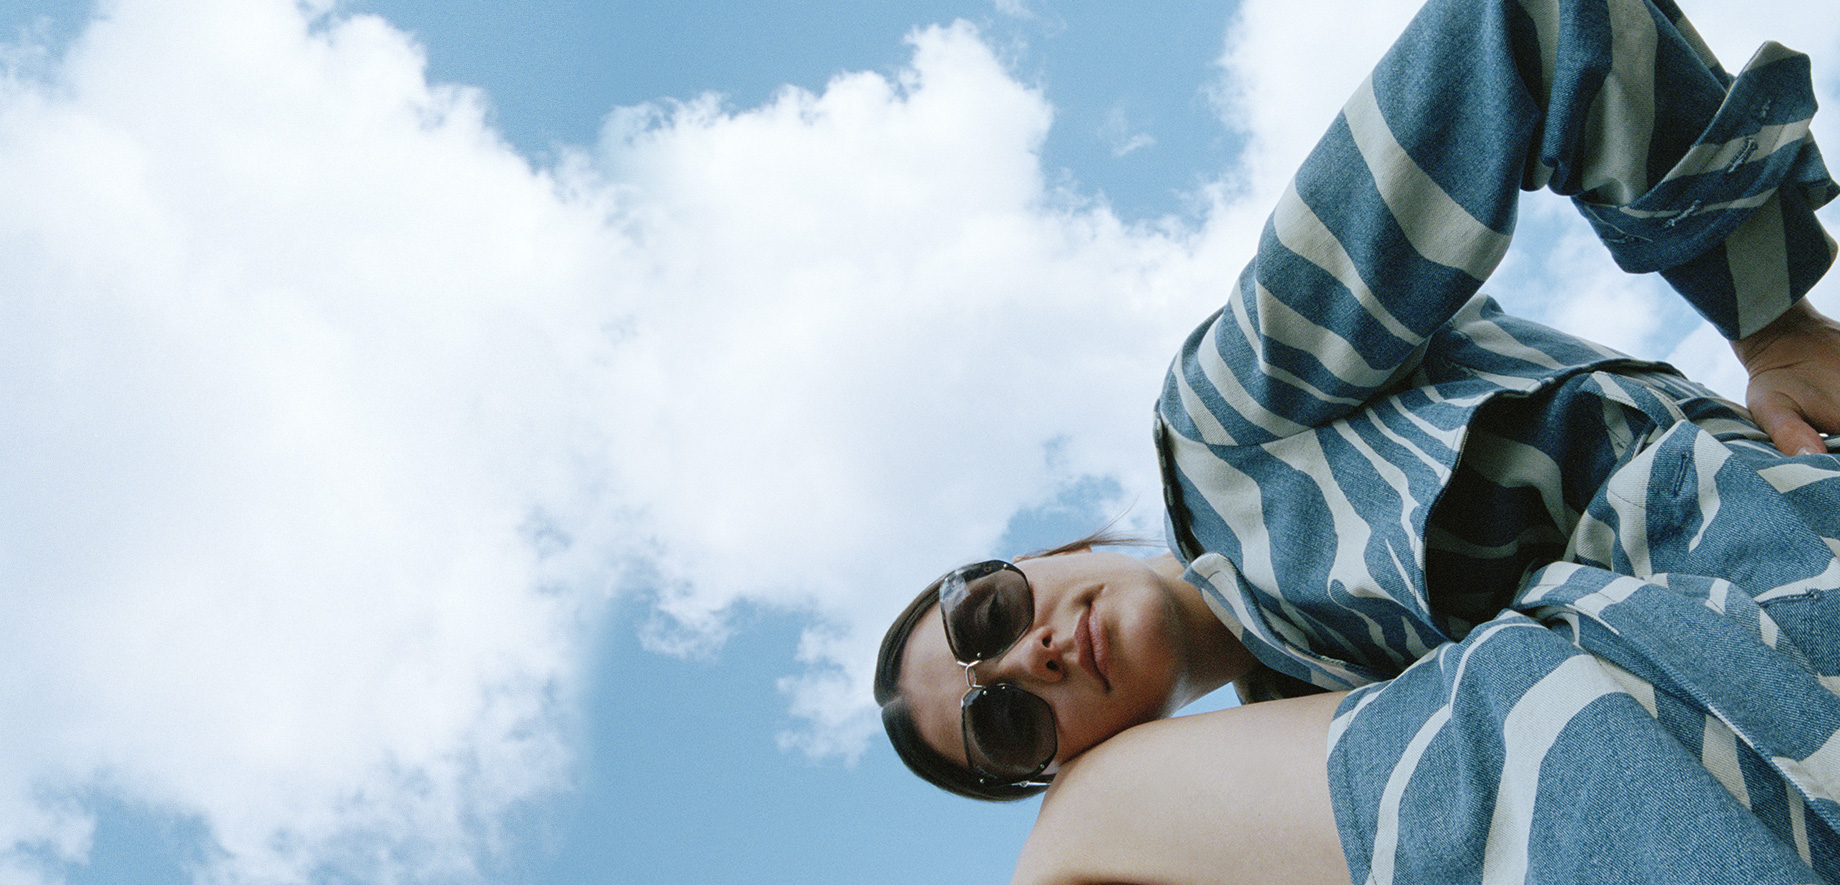
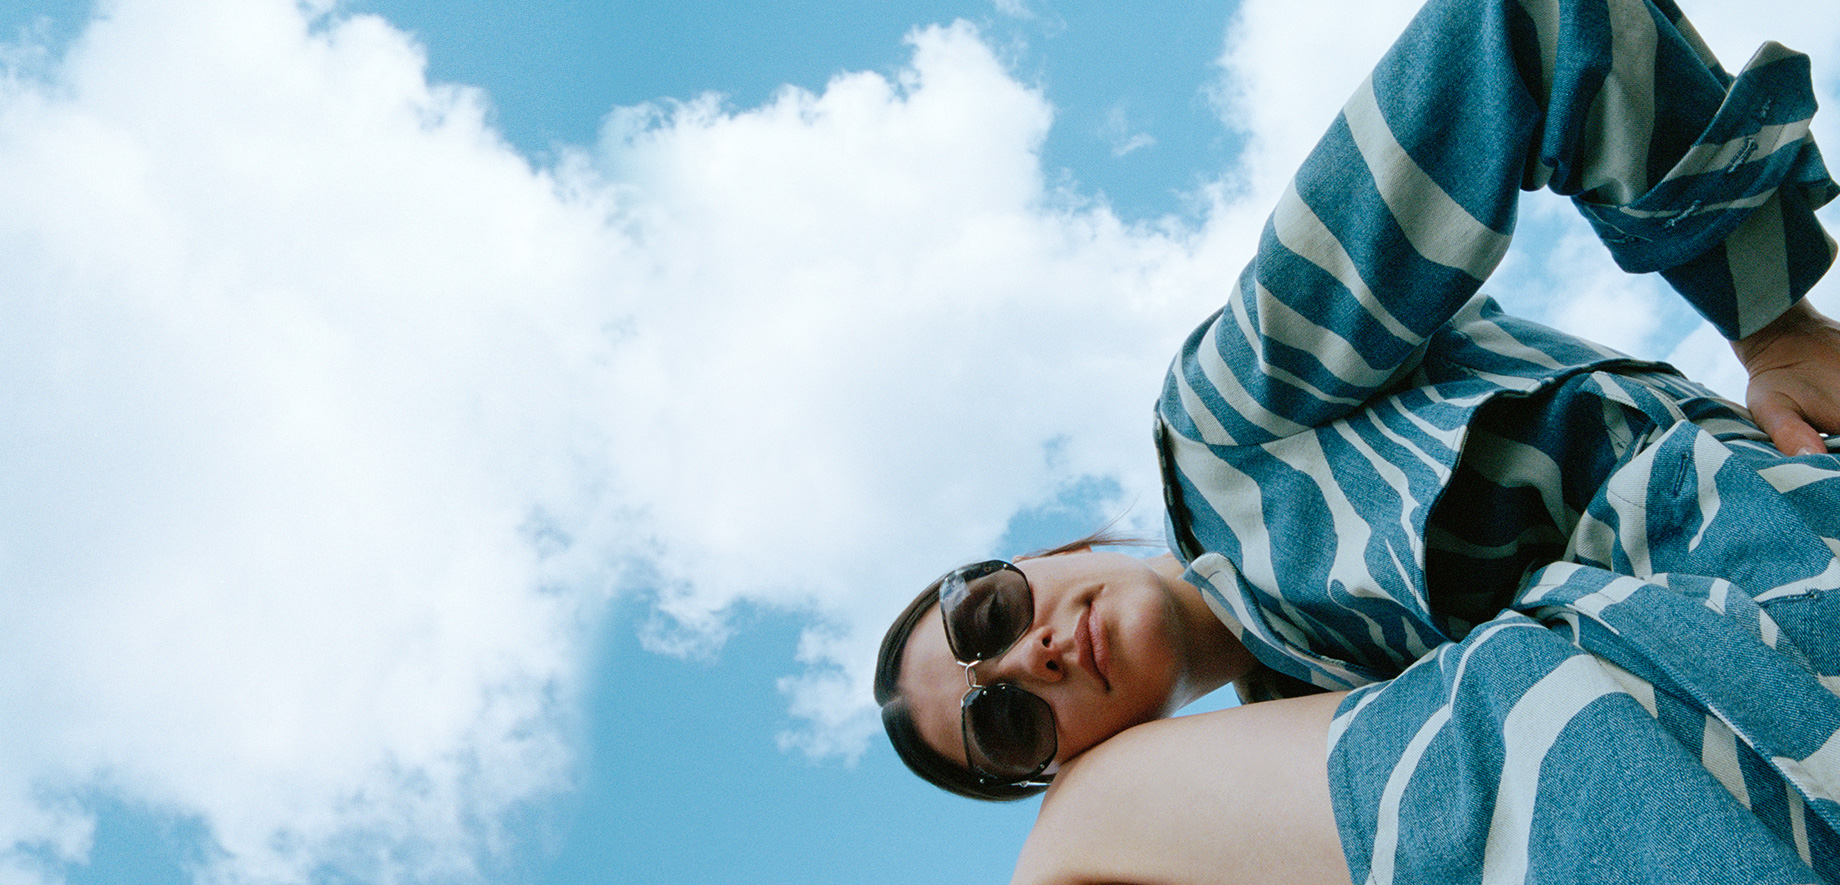
убрано сжатие картинок (но они все равно шакальные)

diff --git a/gulpfile.js b/gulpfile.js
@@ -94,11 +94,11 @@ gulp.task('css:build', function () {
 gulp.task('image:minify', function(){
   return gulp.src(path.src.img)
     .pipe(newer(path.build.img))
-    .pipe(imagemin([
+    /*.pipe(imagemin([
       imagemin.gifsicle({interlaced: true}),
       imagemin.jpegtran({progressive: true}),
       imagemin.optipng({optimizationLevel: 5})
-    ]))
+    ]))*/
     .pipe(gulp.dest(path.build.img));
 });
 gulp.task('image:minified', function(){
